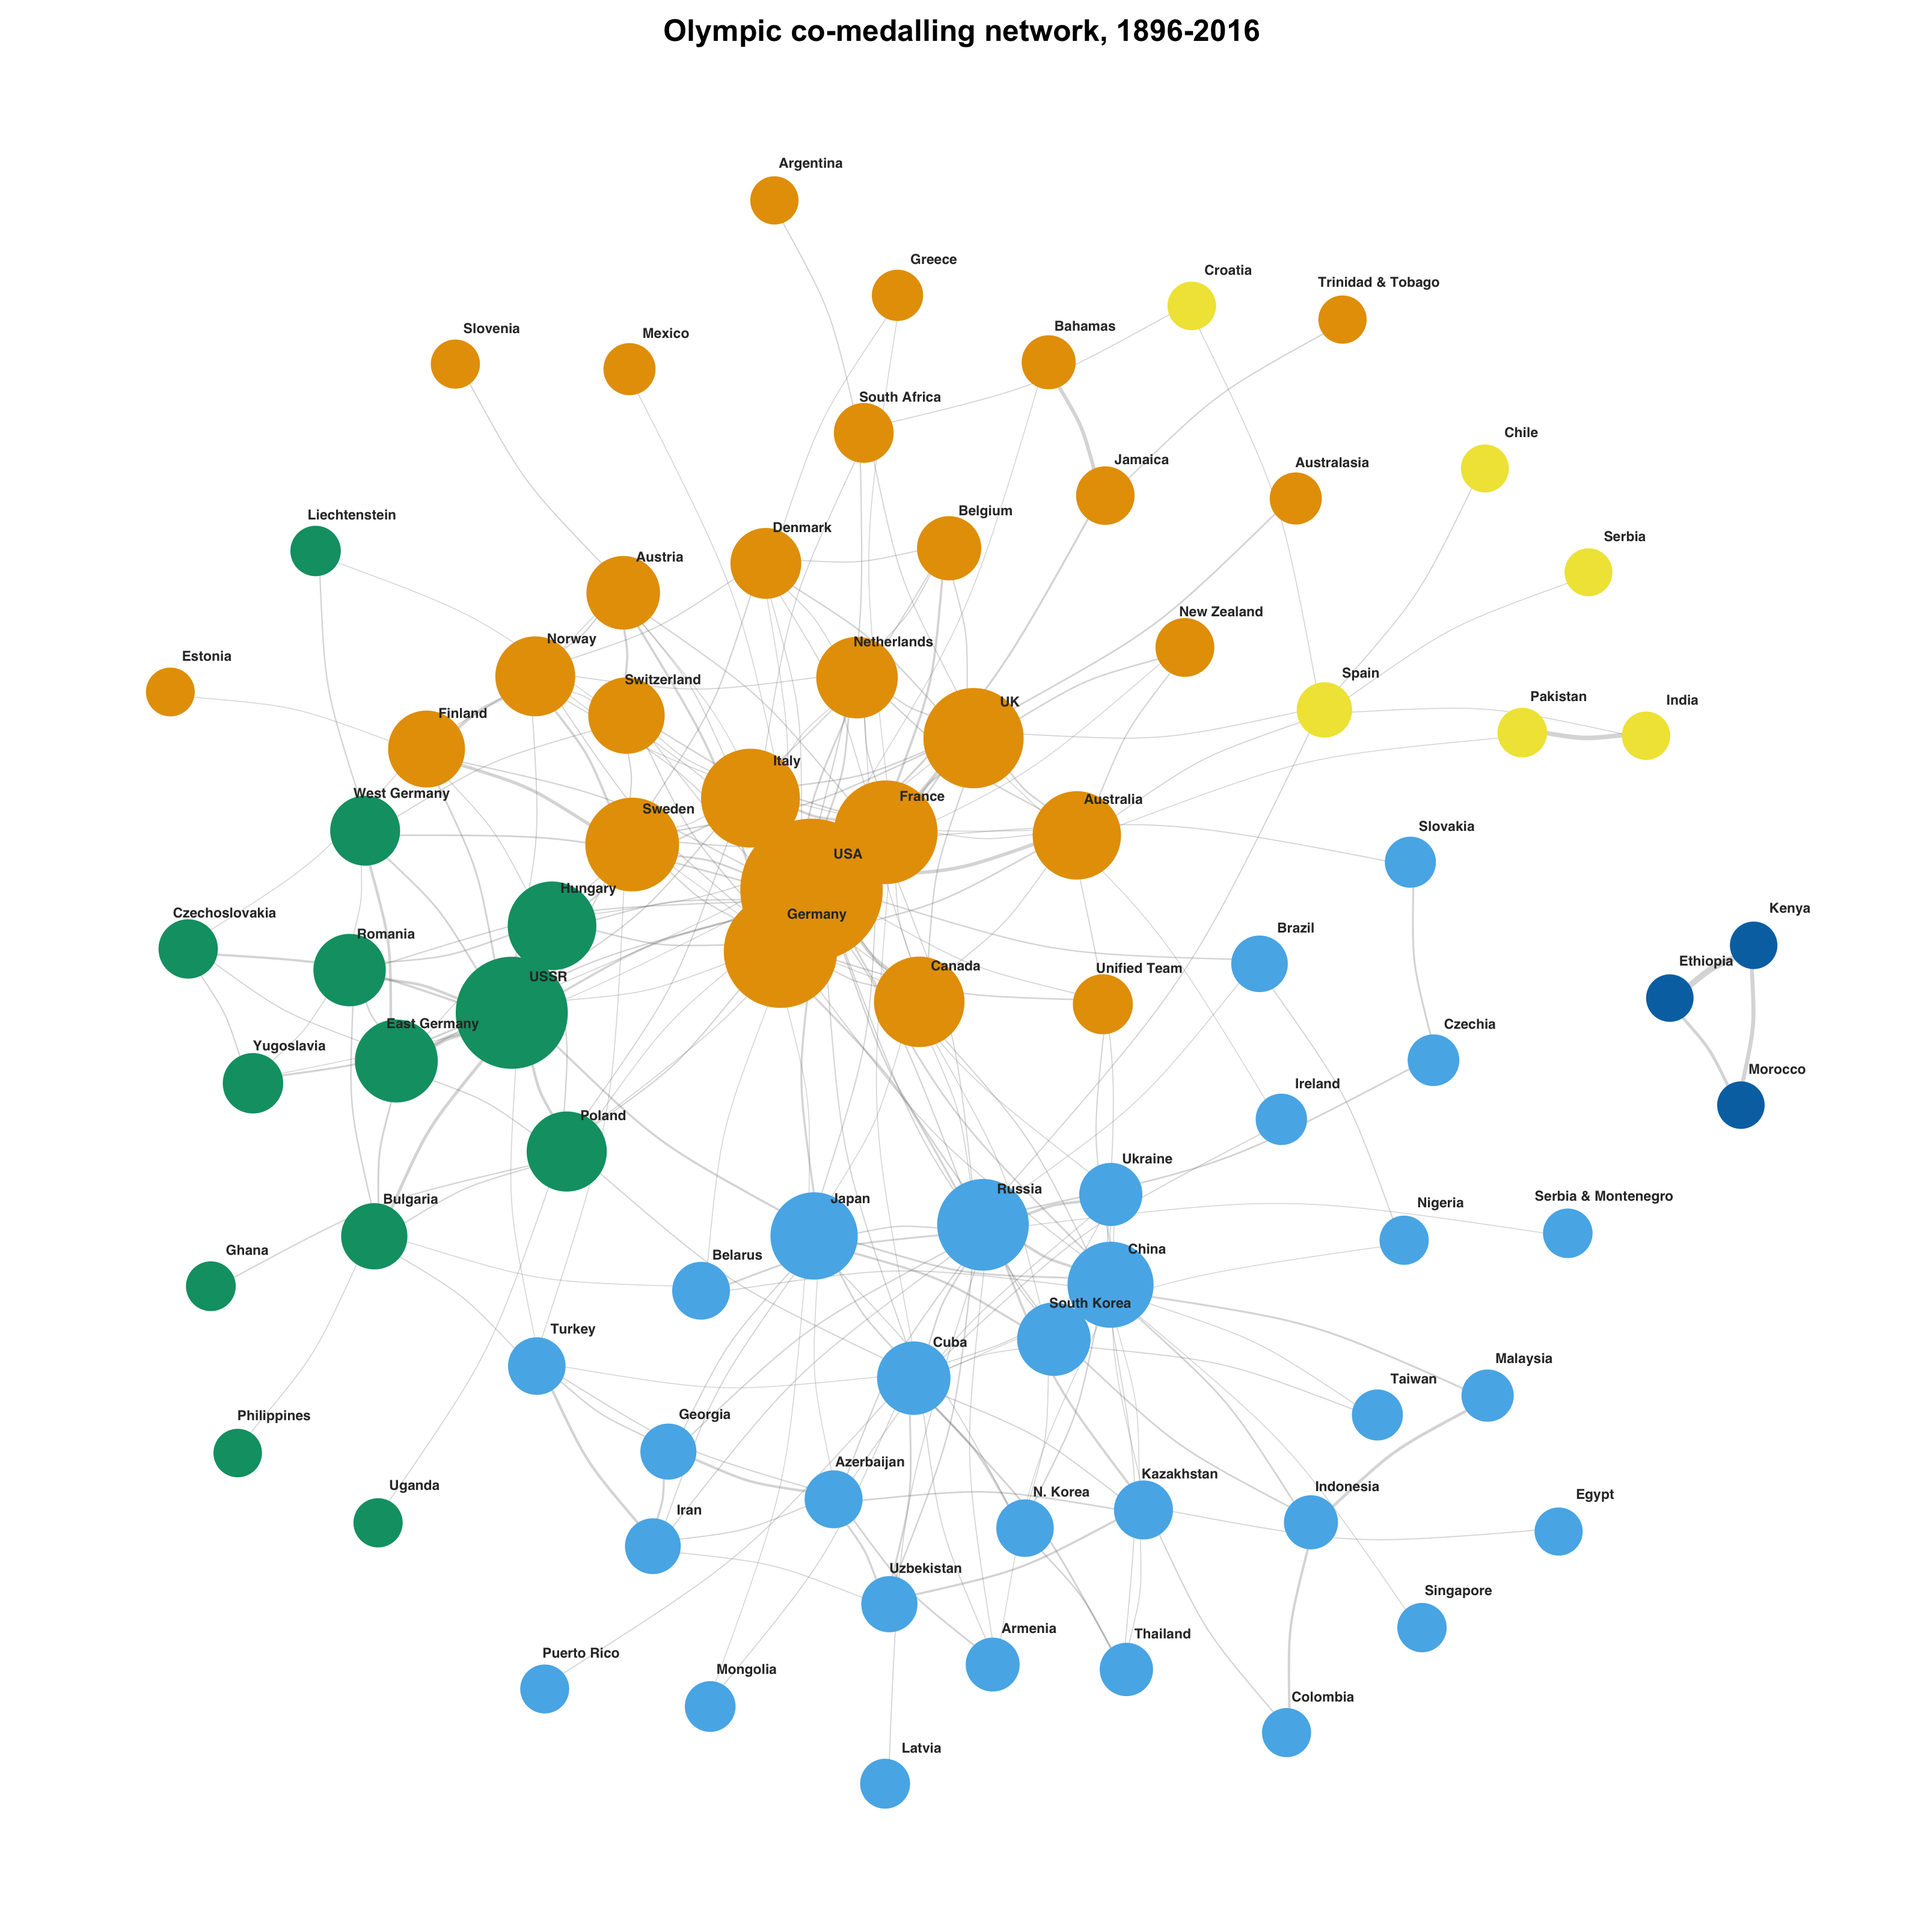
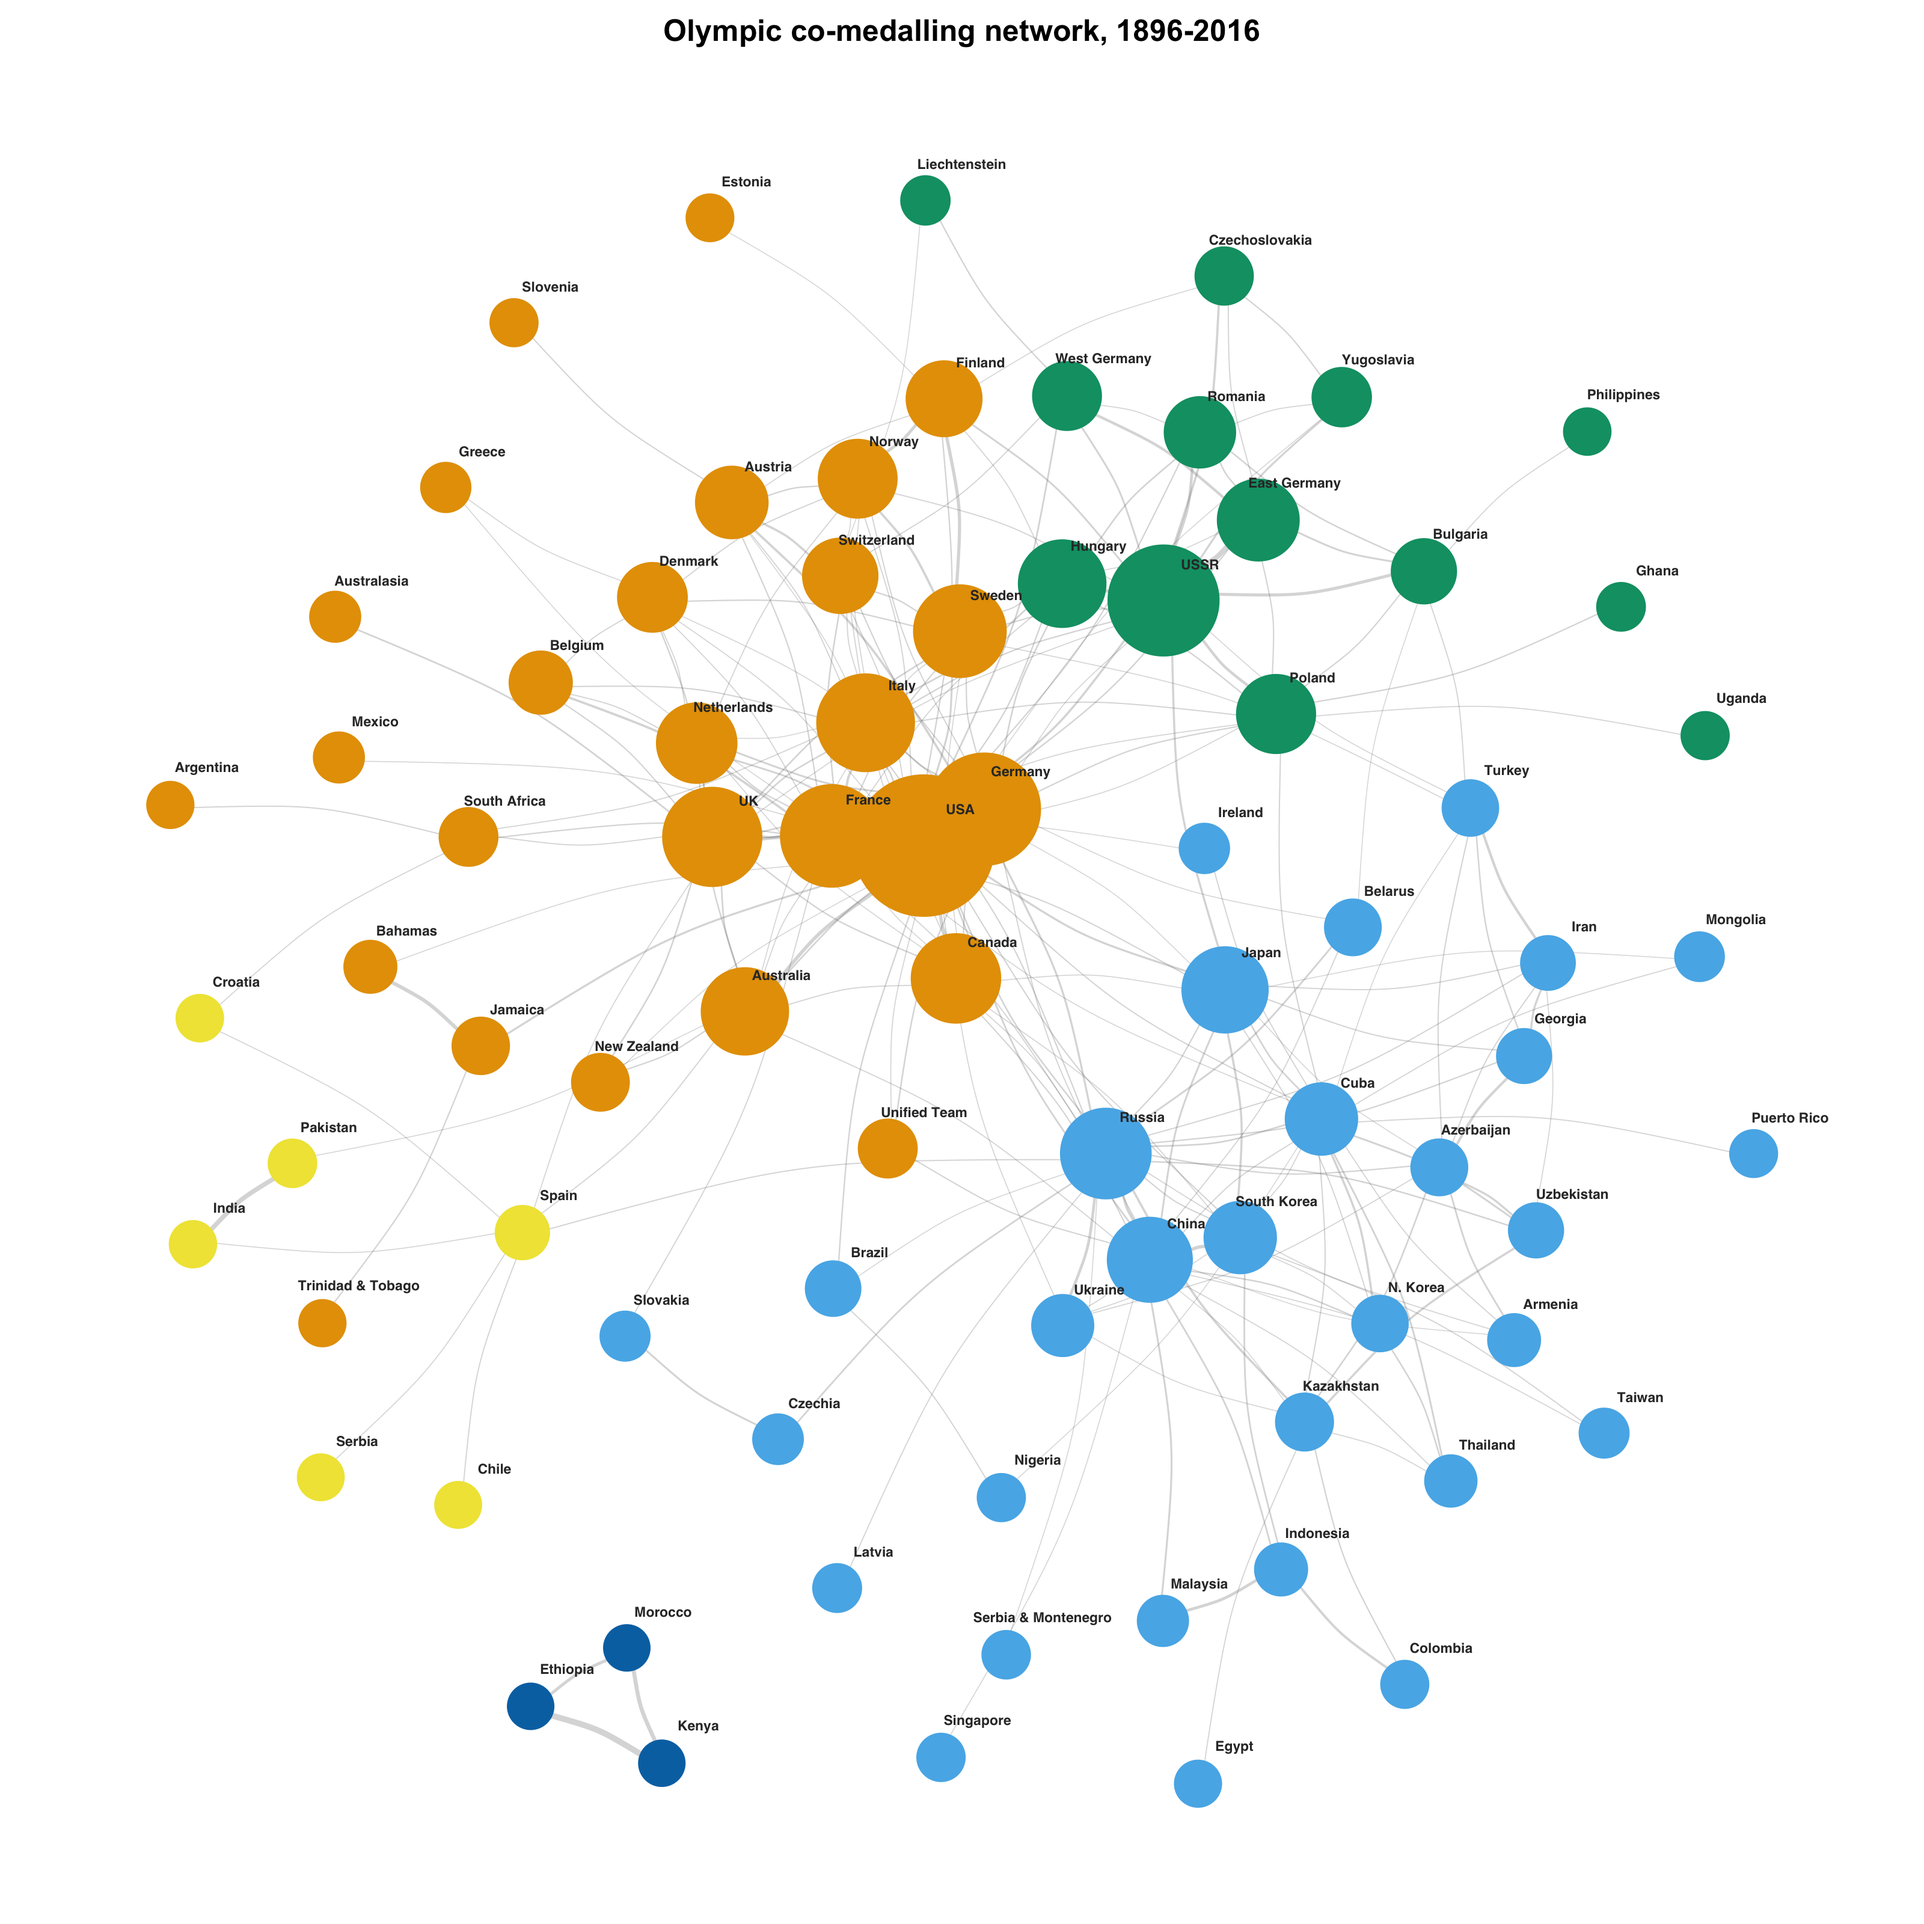
edits

diff --git a/Networks.html b/Networks.html
@@ -76,7 +76,7 @@ ul.task-list li input[type="checkbox"] {
 
 <section id="olympic-medal-network" class="level2">
 <h2 class="anchored" data-anchor-id="olympic-medal-network">Olympic Medal Network</h2>
-<p>The nodes in this network represent countries that have won medals at the Olympics. They are sized according to number of medals, and the edges represent appearing on the podium with other countries. Links are drawn when countries share a high weighted proportion of their medals with other countries rather than a high raw number to avoid over-plotting.</p>
+<p>The nodes in this network represent countries that have won medals at the Olympics. They are sized according to number of medals, and the edges represent appearing on the podium with other countries. Links are drawn when countries share a high weighted proportion of their medals with other countries rather than a high raw number to avoid over-plotting. Data was sourced from a publicly available compiled CSV. Geographically and politically linked nations often share similar Olympic histories. Large and highly successful IOCs like the US and China also share a lot, but they exist in different spheres. Countries like the US and Australia, which are geographically far apart but culturally similar, share a lot of podiums. Some unrelated nations are linked, likely because they happen to succeed in the same sports.</p>
 <div class="cell">
 <div class="cell-output-display">
 <div class="quarto-figure quarto-figure-center">
